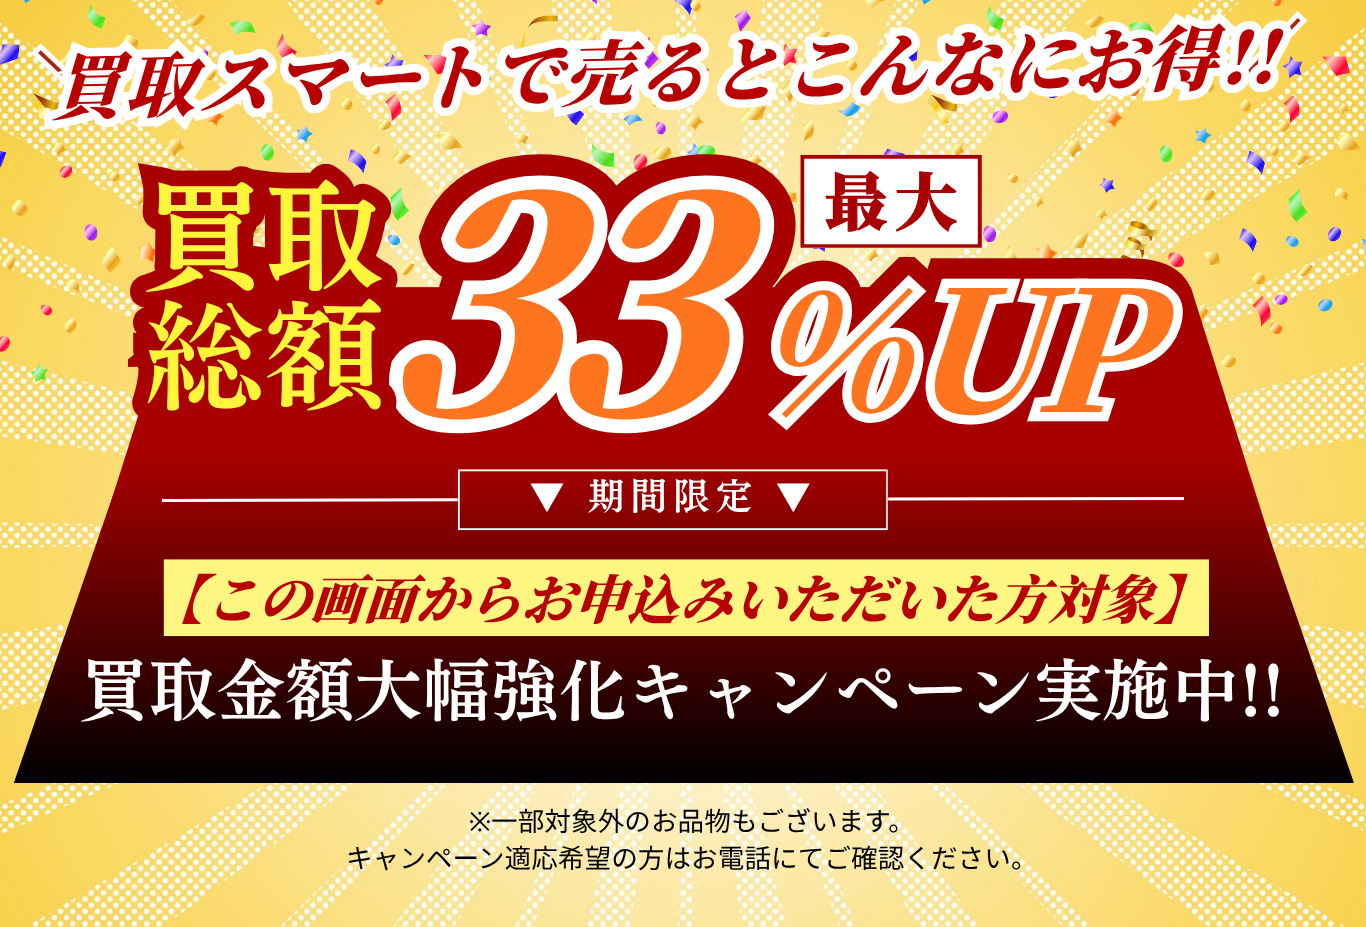
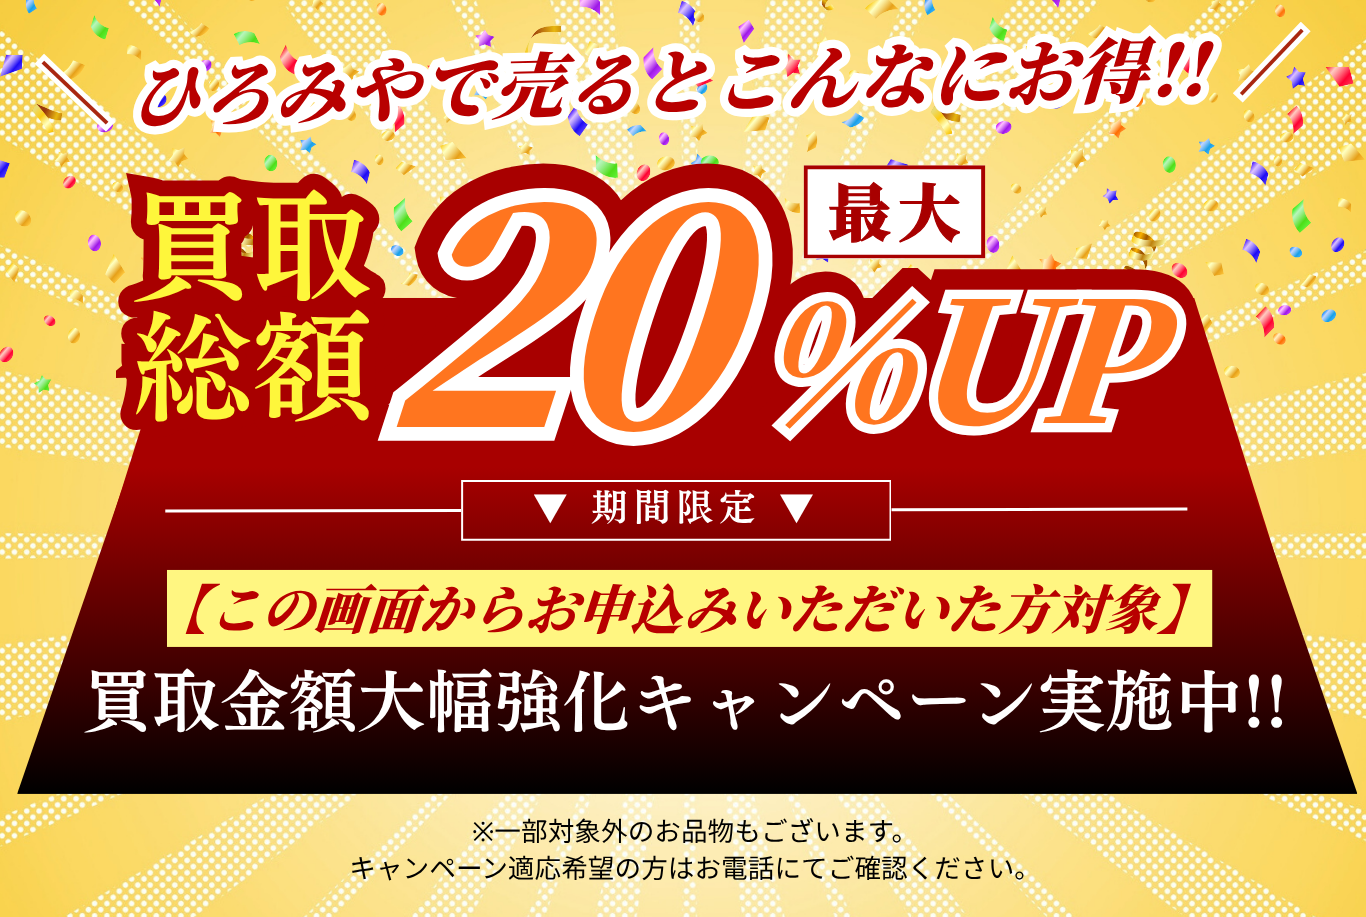
追加微修正等　20251011

diff --git a/index.html b/index.html
@@ -47,7 +47,6 @@
 
 	<section class="jissekiKensu">
 		<div class="jissekiKensu__image-wrapper">
-			<img src="img/hiromiya_jisseki.png" class="jissekiKensu__image">
 			<img src="img/cta_33.png" class="cta_33">
 			<img src="img/cta_imitation.png" class="advertisments">
 			<img src="img/advertisments.png" class="advertisments">
@@ -59,7 +58,7 @@
 			<img src="img/cta_nunmber.png" class="callToAction__img-hiromi" id="callToAction__img-hiromi">
 
 		</div>
-		<a href="tel:0120-924-585" class="invisible-button_for_loop"></a>
+		<a href="tel:0120-829-247" class="invisible-button_for_loop"></a>
 	</section>
 
 
@@ -654,7 +653,7 @@
 			<img src="img/cta_nunmber.png" class="callToAction__img-hiromi" id="callToAction__img-hiromi">
 
 		</div>
-		<a href="tel:0120-924-585" class="invisible-button_for_loop"></a>
+		<a href="tel:0120-829-247" class="invisible-button_for_loop"></a>
 	</section>
 
 	<section class="other-purchase-section" id="others">
@@ -938,7 +937,7 @@
 	</section>
 
 	<!-- ===== Banner: place near </body> ===== -->
-	<a class="promo-banner" href="tel:0120-924-585" aria-label="キャンペーンバナーへ移動">
+	<a class="promo-banner" href="tel:0120-829-247" aria-label="キャンペーンバナーへ移動">
 		<img src="img/banner.png" alt="キャンペーン実施中！詳しくはこちら" decoding="async" loading="lazy" />
 	</a>
 

diff --git a/css/jissekiKensu.css b/css/jissekiKensu.css
@@ -8,7 +8,6 @@
 	/* 縦方向の中央揃え */
 	text-align: center;
 	width: 100%;
-	padding: 20px 0 0 0;
 	/* 上下に余白を追加 */
 }
 
